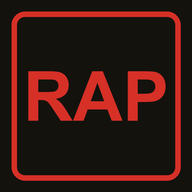
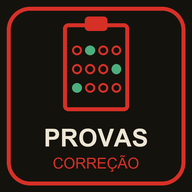
feat(correcao): icone RAP no padrao da Chamada

diff --git a/correcao/sw.js b/correcao/sw.js
@@ -3,7 +3,7 @@
    devolveria o HTML velho — licao de 2026-09-16), e o cache so quando cai.
    So arquivos do proprio site; as chamadas ao Apps Script passam direto.
    CACHE e carimbado pelo gerar_correcao.py a cada publicacao. */
-var CACHE = 'fc1-correcao-48cf70ec82';
+var CACHE = 'fc1-correcao-c444026e63';
 var ARQUIVOS = ['./', 'index.html', 'omr.js', 'lib/jsQR.js', 'lib/qrcode.js', 'manifest.webmanifest',
   '../coleta-config.js', '../_icones/app-rap-192.png', '../_icones/app-rap-512.png'];
 
